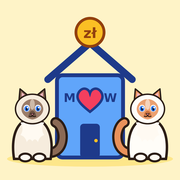
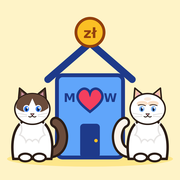
Ikona: koty narysowane wg zdjęcia (seal bicolor i biały flame)
Claude-Session: https://claude.ai/code/session_016PLM6EYn5YpVWWzTSkDRRn

diff --git a/sw.js b/sw.js
@@ -1,7 +1,7 @@
 /* Budżet M&W – service worker: the app opens without internet.
    index.html: network first (so updates arrive), cached copy when offline.
    Firebase SDK (versioned URLs): cache first. Firestore/Auth traffic is never touched. */
-const CACHE = 'budzet-mw-v3';
+const CACHE = 'budzet-mw-v4';
 const SDK = 'https://www.gstatic.com/firebasejs/10.14.1/';
 const SHELL = ['./', './index.html', './manifest.json', './icon-192.png', './icon-512.png', './apple-touch-icon.png'];
 const SDK_FILES = ['firebase-app.js', 'firebase-auth.js', 'firebase-firestore.js'].map(f => SDK + f);

diff --git a/index.html b/index.html
@@ -9,8 +9,8 @@
 <meta name="apple-mobile-web-app-title" content="Budżet M&amp;W">
 <title>Budżet M&amp;W</title>
 <link rel="manifest" href="manifest.json">
-<link rel="icon" href="icon-192.png?v=3">
-<link rel="apple-touch-icon" href="apple-touch-icon.png?v=3">
+<link rel="icon" href="icon-192.png?v=4">
+<link rel="apple-touch-icon" href="apple-touch-icon.png?v=4">
 <style>
 /* Layout: one-column mobile ledger — navy header, white cards on cool grey, pastel category blocks, fixed bottom tab bar. Single light theme by choice (matches the original app). */
 :root{
